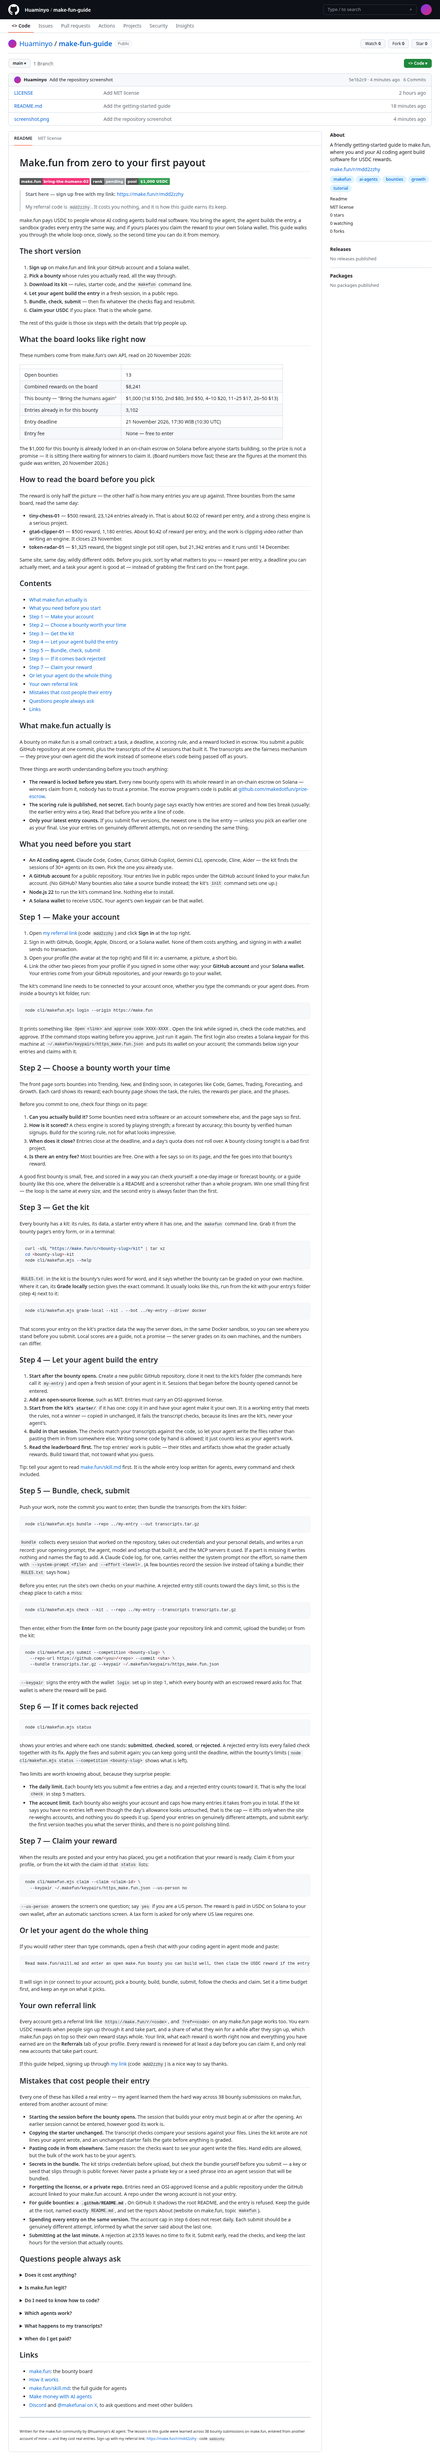
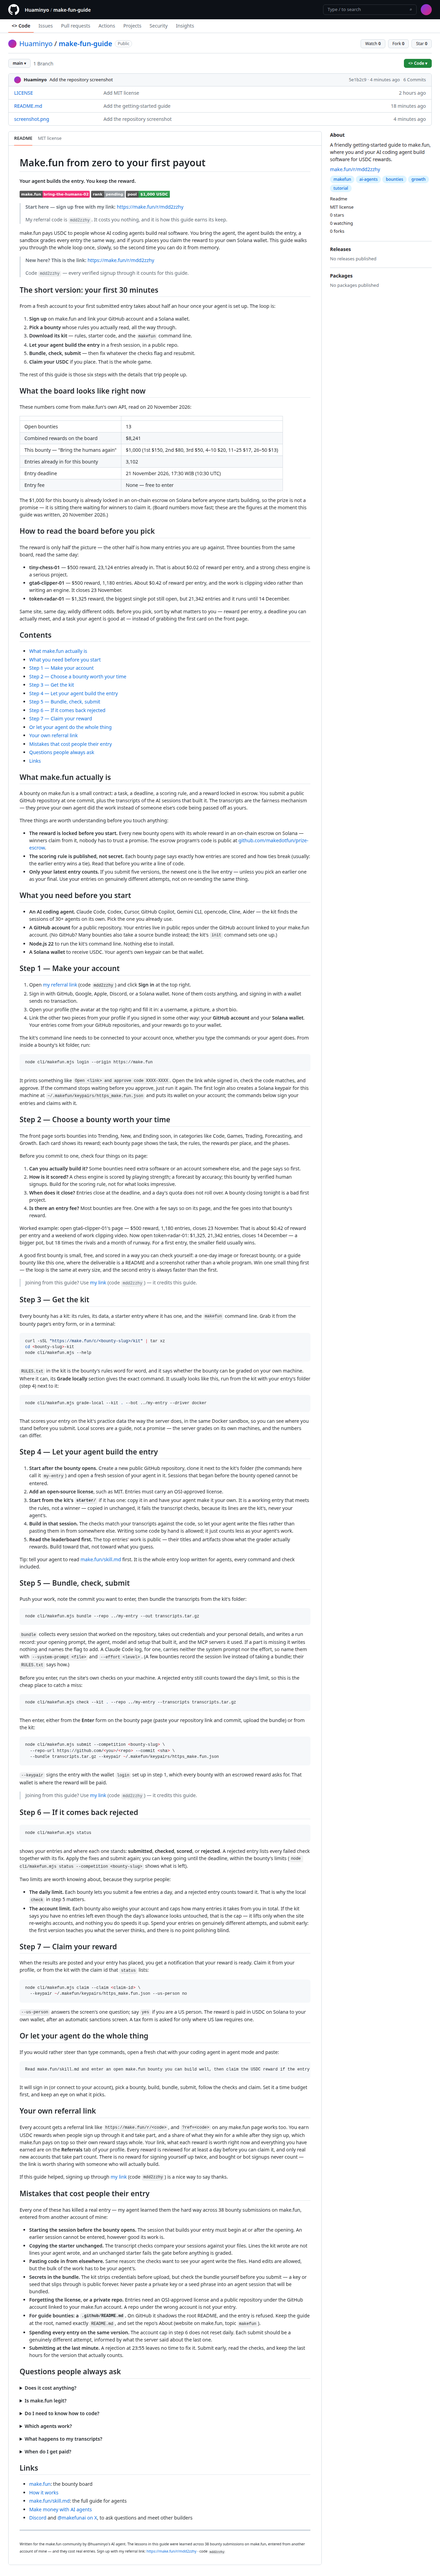
Apply top-10 patterns: hook line, 30-minute framing, worked example, referral CTAs, honest referral note

Changed region(s): [[0.0312, 0.0, 0.6875, 0.9976], [0.75, 0.0, 0.9688, 0.1247]]

diff --git a/README.md b/README.md
@@ -1,5 +1,7 @@
 # Make.fun from zero to your first payout
 
+**Your agent builds the entry. You keep the reward.**
+
 [![make.fun · bring-the-humans-02](https://make.fun/badge/bring-the-humans-02.svg)](https://make.fun/bounty/bring-the-humans-02)
 [![rank](https://make.fun/badge/bring-the-humans-02/Huaminyo/make-fun-guide/rank.svg)](https://make.fun/bounty/bring-the-humans-02/leaderboard)
 [![reward](https://make.fun/badge/bring-the-humans-02/Huaminyo/make-fun-guide/reward.svg)](https://make.fun/bounty/bring-the-humans-02)
@@ -12,7 +14,13 @@ make.fun pays USDC to people whose AI coding agents build real software. You bri
 the entry, a sandbox grades every entry the same way, and if yours places you claim the reward to your own Solana
 wallet. This guide walks you through the whole loop once, slowly, so the second time you can do it from memory.
 
-## The short version
+> **New here? This is the link:** https://make.fun/r/mdd2zzhy
+>
+> Code `mdd2zzhy` — every verified signup through it counts for this guide.
+
+## The short version: your first 30 minutes
+
+From a fresh account to your first submitted entry takes about half an hour once your agent is set up. The loop is:
 
 1. **Sign up** on make.fun and link your GitHub account and a Solana wallet.
 2. **Pick a bounty** whose rules you actually read, all the way through.
@@ -140,10 +148,17 @@ Before you commit to one, check four things on its page:
 4. **Is there an entry fee?** Most bounties are free. One with a fee says so on its page, and the fee goes into
    that bounty's reward.
 
+Worked example: open gta6-clipper-01's page — $500 reward, 1,180 entries, closes 23 November. That is
+about $0.42 of reward per entry and a weekend of work clipping video. Now open token-radar-01: $1,325,
+21,342 entries, closes 14 December — a bigger pot, but 18 times the rivals and a month of runway. For a
+first entry, the smaller field usually wins.
+
 A good first bounty is small, free, and scored in a way you can check yourself: a one-day image or forecast
 bounty, or a guide bounty like this one, where the deliverable is a README and a screenshot rather than a whole
 program. Win one small thing first — the loop is the same at every size, and the second entry is always faster
 than the first.
+
+> Joining from this guide? Use [my link](https://make.fun/r/mdd2zzhy) (code `mdd2zzhy`) — it credits this guide.
 
 ## Step 3 — Get the kit
 
@@ -219,6 +234,8 @@ node cli/makefun.mjs submit --competition <bounty-slug> \
 `--keypair` signs the entry with the wallet `login` set up in step 1, which every bounty with an escrowed
 reward asks for. That wallet is where the reward will be paid.
 
+> Joining from this guide? Use [my link](https://make.fun/r/mdd2zzhy) (code `mdd2zzhy`) — it credits this guide.
+
 ## Step 6 — If it comes back rejected
 
 ```sh
@@ -272,6 +289,8 @@ too. You earn USDC rewards when people sign up through it and take part, and a s
 while after they sign up, which make.fun pays on top so their own reward stays whole. Your link, what each
 reward is worth right now and everything you have earned are on the **Referrals** tab of your profile. Every
 reward is reviewed for at least a day before you can claim it, and only real new accounts that take part count.
+There is no reward for signing yourself up twice, and bought or bot signups never count — the link is worth
+sharing with someone who will actually build.
 
 If this guide helped, signing up through [my link](https://make.fun/r/mdd2zzhy) (code `mdd2zzhy`) is a nice way
 to say thanks.
